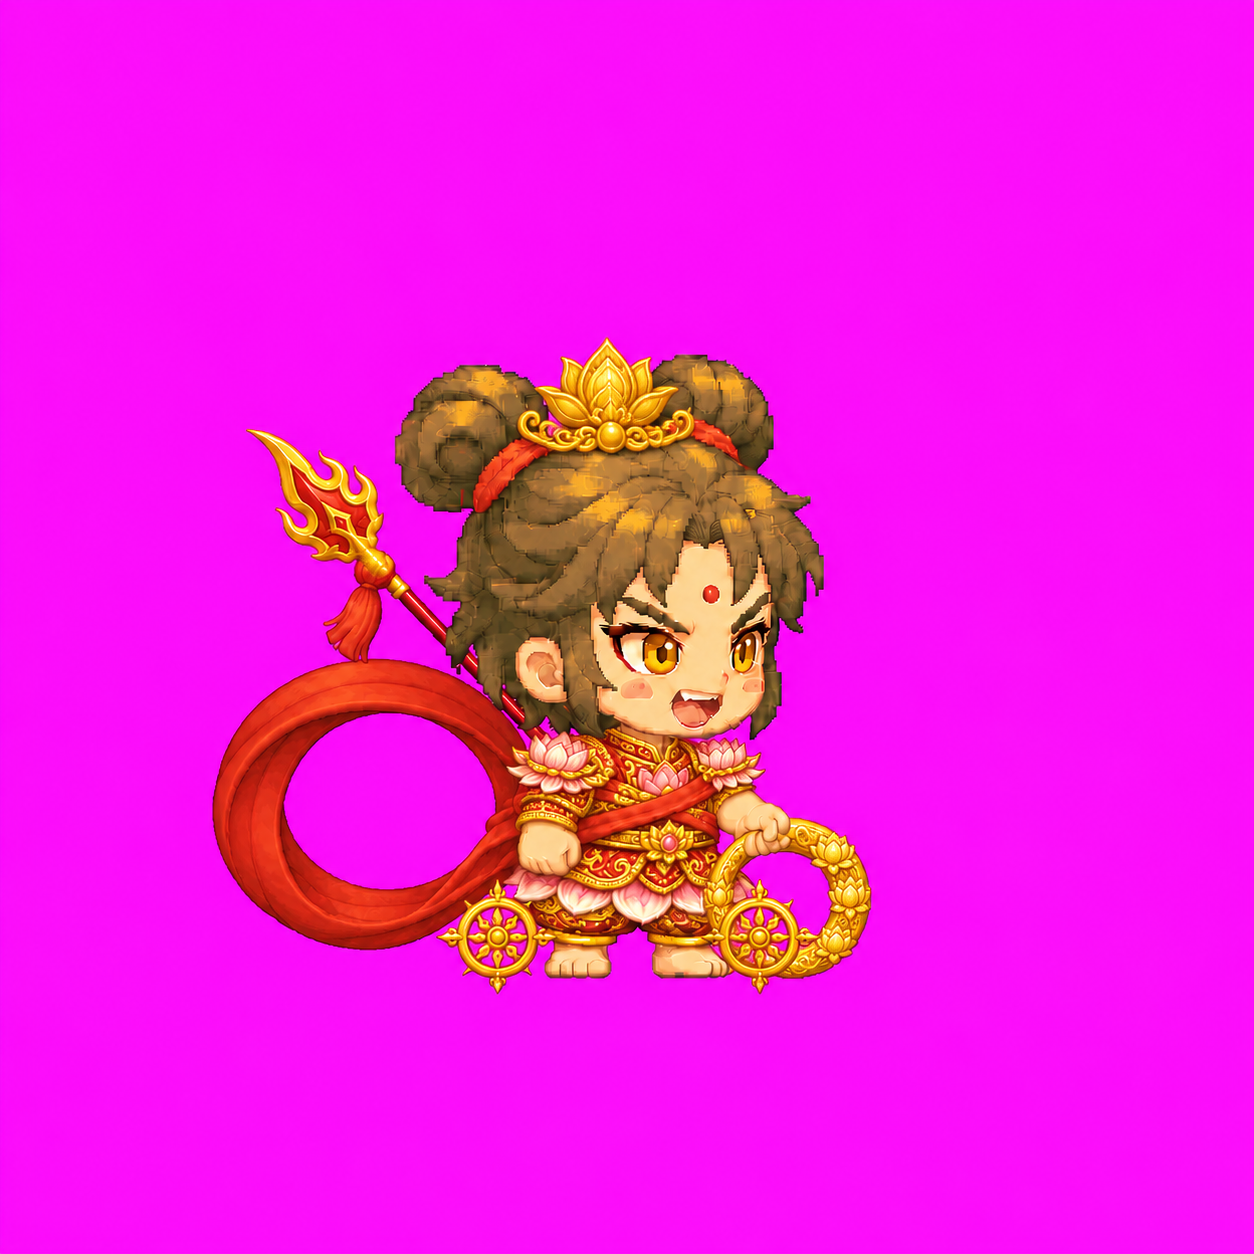
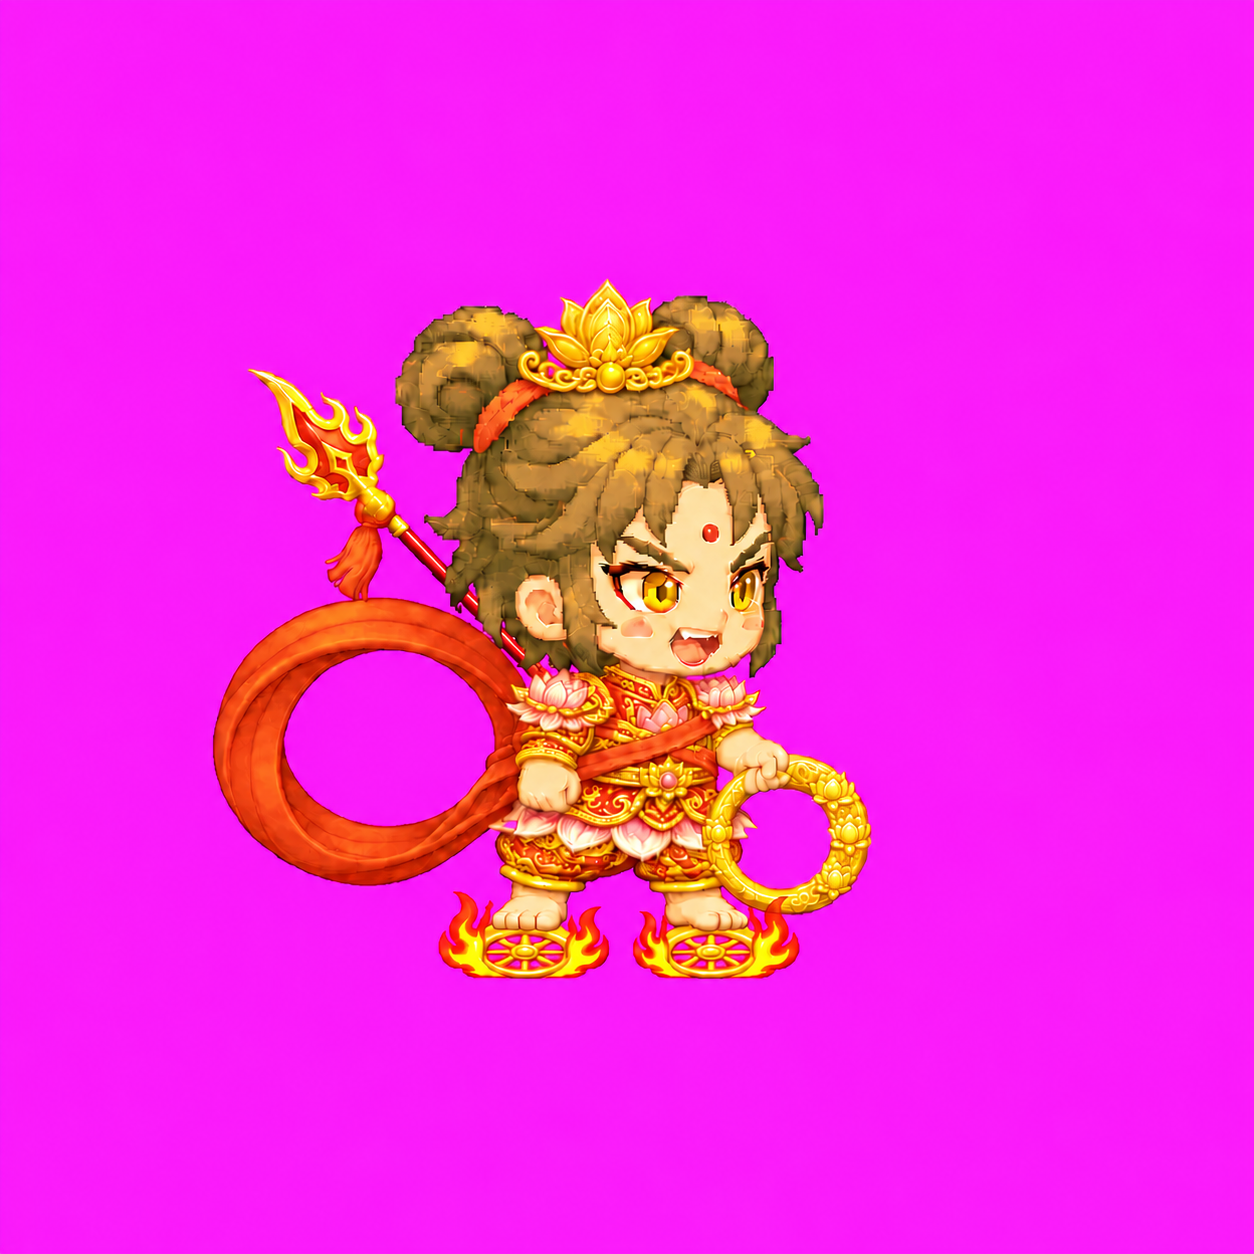
art(n5): submit tier 5 burning-wheel revision and mark ready for review

Changed region(s): [[0.1555, 0.2177, 0.7153, 0.8086]]

diff --git a/idle-td-art/batch5/ORDER-N5.md b/idle-td-art/batch5/ORDER-N5.md
@@ -1,6 +1,6 @@
 # 放置塔防：工單 N5　三位新傳說 站立圖（1～6 階）
 
-狀態：進行中：dot 2026-11-06 08:02 台灣時間（哪吒風火輪修訂）
+狀態：待驗收
 （狀態只會是：待接手／進行中：<誰> <時間>／待驗收／完成通知）
 
 泓 2026-11-06 確認加三位新傳說（進一般傳說池＋開系列池）。這張只畫**站立圖**，共 18 張；攻擊格和特效等這張通過後另開 N6。
@@ -120,3 +120,5 @@ Accessories go outside the body. Solid magenta #FF00FF background, no effects, n
   `Edit this exact sprite. Keep the head, face, hair, body, outfit, sash, ring, spear and everything else EXACTLY the same. Move the two wheels so that he STANDS ON them: one wheel directly under each foot, the soles of the feet resting on top of the wheels (wheels seen slightly from the side, flat on the ground). Each wheel is burning: draw solid cartoon flames (red, orange, yellow, solid colors, no glow) rising from the wheel rims around the feet. Move the whole character up so the bottom of the wheels is at y=978. Do not resize anything. Solid magenta #FF00FF background.`
   檔名照舊覆蓋：`nezha__t3__stand.png`～`nezha__t6__stand.png`，推 `dot/idle-td-n5`。3 階先交，通過後 4～6 階照同樣位置改。N6 的哪吒攻擊格等這四張改好再畫（楊戩、敖丙照常進行）。
 - 08:01 台灣時間 **泓：風火輪要冒火。** 上面指令已加：輪子邊緣冒出實色卡通火焰（紅橙黃、不畫光暈），火包住腳邊。3 階輪子小、火也小一點，越高階火越大。
+- 08:16 台灣時間 哪吒 3 階（踩風火輪版）**通過**（頭、身體寬度逐行一樣，整個抬高 62px；兩腳各踩一個金輪、輪邊冒紅橙黃實色火，輪底 969）。4～6 階照同樣位置改（輪子移到腳下、人抬高、輪底≈970～978、火越高階越大）。
+- 08:33 台灣時間 哪吒 4 階、6 階神話（踩風火輪版）**通過**（頭、身體跟原圖一樣大，整個抬高約 57～75px；兩腳踩火輪、輪邊冒實色火，輪底 983～986；6 階金蓮花、雙紅綾保留）。**還差 5 階**（`nezha__t5__stand.png` 還是舊的輪子在腳邊版本），請照同樣方式改。
